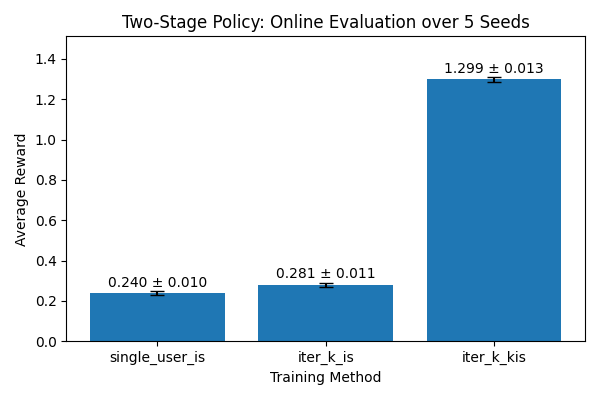
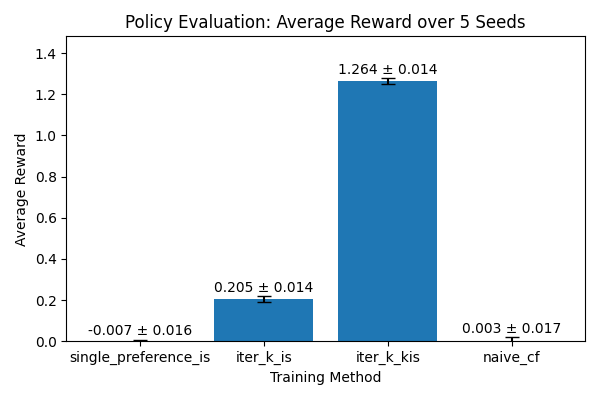
implement naive cf

diff --git a/benchmark/ope/plot_online_two_stage.py b/benchmark/ope/plot_online_two_stage.py
@@ -5,17 +5,17 @@ import numpy as np
 import random
 from custom_obp.dataset.synthetic_bandit_dataset import CustomSyntheticBanditDataset
 from custom_obp.policy.two_stage_policy import TwoTowerFirstStagePolicy, SoftmaxSecondStagePolicy
+from custom_obp.models.cf_model import NaiveCF
 
 def set_seed(seed):
     torch.manual_seed(seed)
     np.random.seed(seed)
     random.seed(seed)
 
-def online_eval_once(policy_path: str, seed: int) -> float:
+def online_eval_once(method: str, seed: int) -> float:
     set_seed(seed)
     device = "cpu"
 
-    # setup dataset
     dataset = CustomSyntheticBanditDataset(
         n_actions=10,
         dim_context=5,
@@ -25,40 +25,56 @@ def online_eval_once(policy_path: str, seed: int) -> float:
         device=device,
         single_stage=False
     )
-
-    # instantiate models
-    first_stage = TwoTowerFirstStagePolicy(
-        dim_context=5,
-        num_items=10,
-        emb_dim=64,
-        top_k=5
-    )
-    second_stage = SoftmaxSecondStagePolicy(
-        dim_context=5,
-        emb_dim=64,
-        first_stage_policy=first_stage
-    )
-
-    # load weights
-    state_dicts = torch.load(policy_path)
-    first_stage.load_state_dict(state_dicts["first_stage"])
-    second_stage.load_state_dict(state_dicts["second_stage"])
-
-    # evaluate
     x_test = dataset.sample_context(10000)
-    candidates = first_stage.sample_topk(x_test)
-    actions = second_stage.sample_output(x_test, candidates)
 
-    rewards = dataset.reward_function(x_test, actions)
-    return rewards.mean().item()
+    if method == "naive_cf":
+        model = NaiveCF(n_users=1000, n_items=dataset.n_actions)
+        model.load_state_dict(torch.load(f"{method}_policy.pt"))
+        model.eval()
+
+        user_ids = torch.randint(0, 1000, size=(10000,))
+        item_ids = torch.arange(dataset.n_actions)
+
+        best_actions = []
+        for user_id in user_ids:
+            user_tensor = user_id.repeat(dataset.n_actions)
+            scores = model(user_tensor, item_ids)
+            best_action = torch.argmax(scores).item()
+            best_actions.append(best_action)
+
+        best_actions = torch.tensor(best_actions)
+        rewards = dataset.reward_function(x_test, best_actions)
+        return rewards.mean().item()
+
+    else:
+        first_stage = TwoTowerFirstStagePolicy(
+            dim_context=5,
+            num_items=10,
+            emb_dim=64,
+            top_k=5
+        )
+        second_stage = SoftmaxSecondStagePolicy(
+            dim_context=5,
+            emb_dim=64,
+            first_stage_policy=first_stage
+        )
+
+        state_dicts = torch.load(f"{method}_policy.pt")
+        dataset.action_context[:] = state_dicts["action_context"]
+        first_stage.load_state_dict(state_dicts["first_stage"])
+        second_stage.load_state_dict(state_dicts["second_stage"])
+
+        candidates = first_stage.sample_topk(x_test)
+        actions = second_stage.sample_output(x_test, candidates)
+        rewards = dataset.reward_function(x_test, actions)
+        return rewards.mean().item()
 
 def evaluate_over_seeds(method: str, seeds=[0, 1, 2, 3, 4]):
-    path = f"{method}_policy.pt"
-    scores = [online_eval_once(path, seed) for seed in seeds]
+    scores = [online_eval_once(method, seed) for seed in seeds]
     return np.mean(scores), np.std(scores)
 
 def main():
-    methods = ["single_user_is", "iter_k_is", "iter_k_kis"]
+    methods = ["single_preference_is", "iter_k_is", "iter_k_kis", "naive_cf"]
     means, stds = [], []
 
     for method in methods:
@@ -67,18 +83,19 @@ def main():
         means.append(mean)
         stds.append(std)
 
-    # creating plot
+    # plotting
     plt.figure(figsize=(6, 4))
     plt.bar(methods, means, yerr=stds, capsize=5)
-    plt.title("Two-Stage Policy: Online Evaluation over 5 Seeds")
+    plt.title("Policy Evaluation: Average Reward over 5 Seeds")
     plt.ylabel("Average Reward")
     plt.xlabel("Training Method")
     plt.ylim(0, max(means) + max(stds) + 0.2)
+
     for i, v in enumerate(means):
         plt.text(i, v + stds[i] + 0.02, f"{v:.3f} ± {stds[i]:.3f}", ha='center')
+
     plt.tight_layout()
-    script_dir = os.path.dirname(os.path.abspath(__file__))
-    save_path = os.path.join(script_dir, "two_stage_eval_seeds.png")
+    save_path = os.path.join(os.path.dirname(__file__), "two_stage_eval_seeds.png")
     plt.savefig(save_path)
     plt.show()
 

diff --git a/benchmark/ope/opl_two_stage_train.py b/benchmark/ope/opl_two_stage_train.py
@@ -7,6 +7,7 @@ from custom_obp.ope.estimators import TwoStageISEstimator, KernelISEstimator
 from custom_obp.dataset.synthetic_bandit_dataset import CustomSyntheticBanditDataset
 from custom_obp.policy.action_policies import UniformRandomPolicy
 from custom_obp.policy.two_stage_policy import TwoTowerFirstStagePolicy, SoftmaxSecondStagePolicy
+from custom_obp.models.cf_model import NaiveCF
 
 class ConstantMarginalDensityModel(nn.Module):
     def __init__(self, constant: float = 0.1):
@@ -30,8 +31,28 @@ def train(method: str, n_epochs=300, kernel_fn=None):
     x = feedback["context"]
     a = feedback["action"]
     r = feedback["reward"]
-    # pi0 = feedback["pscore"]
+    u = feedback["user_id"]
     action_context = dataset.action_context
+
+    if method == "naive_cf":
+        model = NaiveCF(n_users=dataset.n_users, n_items=dataset.n_actions, emb_dim=32)
+        optimizer = optim.Adam(model.parameters())
+        loss_fn = nn.MSELoss()
+
+        for epoch in range(n_epochs):
+            optimizer.zero_grad()
+            preds = model(u, a)
+            loss = loss_fn(preds, r)
+            loss.backward()
+            optimizer.step()
+
+            if epoch % 10 == 0:
+                with torch.no_grad():
+                    mse = ((model(u, a) - r) ** 2).mean()
+                    print(f"[Epoch {epoch}] Method: {method} | Loss: {loss.item():.4f} | MSE: {mse.item():.4f}")
+
+        torch.save(model.state_dict(), f"{method}_policy.pt")
+        return
 
     if kernel_fn is None and method == "iter_k_kis":
         kernel_fn = lambda y, y_i, x, tau: torch.exp(
@@ -66,7 +87,7 @@ def train(method: str, n_epochs=300, kernel_fn=None):
             r_valid = r[valid]
             c_valid = resampled_candidates[valid]
             pi0_valid = torch.full_like(a_valid, 1.0 / dataset.n_actions, dtype=torch.float32)
-
+            
             loss_fn = TwoStageISGradient(
                 first_stage=first_stage,
                 second_stage=second_stage,
@@ -120,6 +141,7 @@ def train(method: str, n_epochs=300, kernel_fn=None):
                 )
                 
         loss = loss_fn.estimate_policy_gradient()
+
         loss.backward()
         optimizer.step()
 
@@ -196,13 +218,15 @@ def train(method: str, n_epochs=300, kernel_fn=None):
     
     torch.save({
         "first_stage": first_stage.state_dict(),
-        "second_stage": second_stage.state_dict()
+        "second_stage": second_stage.state_dict(),
+        "action_context": dataset.action_context
     }, f"{method}_policy.pt")
 
 if __name__ == "__main__":
     parser = argparse.ArgumentParser()
     parser.add_argument("--method", type=str, required=True,
-                        choices=["single_preference_is", "iter_k_is", "iter_k_kis"])
+                        choices=["single_preference_is", "iter_k_is",
+                                  "iter_k_kis", "naive_cf"])
     args = parser.parse_args()
 
     train(method=args.method)

diff --git a/custom_obp/dataset/synthetic_bandit_dataset.py b/custom_obp/dataset/synthetic_bandit_dataset.py
@@ -126,17 +126,28 @@ class CustomSyntheticBanditDataset:
     def obtain_batch_bandit_feedback(self, n_samples, n_users):
         """Obtain structured logged bandit feedback."""
         
-        context = torch.tensor(
-            self.random_.normal(size=(n_samples, self.dim_context)), dtype=torch.float32
-        ).to(self.device)
-        data = self.generate_data(context)
+        self.n_users = n_users
 
+        # Create per-user context embedding
+        user_embeddings = torch.tensor(
+            self.random_.normal(size=(n_users, self.dim_context)), dtype=torch.float32
+        ).to(self.device)
+
+        # Generate user IDs
         user_ids = torch.arange(n_users, device=self.device).repeat(n_samples // n_users + 1)[:n_samples]
         user_ids = user_ids[torch.randperm(n_samples)]
+
+        # Context is now the embedding for that user
+        context = user_embeddings[user_ids]
+
+        data = self.generate_data(context)
         
         if self.single_stage:
-            pi_b_logits = torch.randn(n_samples, self.n_actions).to(self.device)
-            pi_b = torch.softmax(pi_b_logits, dim=1)
+            pi_b = torch.stack([
+                self.action_policy.probs(context[i], self.action_context)
+                for i in range(n_samples)
+            ]).to(self.device)
+
             pscore = pi_b[torch.arange(n_samples), data["actions"]]
 
             return {
@@ -158,10 +169,10 @@ class CustomSyntheticBanditDataset:
                 )
 
             # compute policy probabilities
-            pi_b_logits = torch.tensor(
-                self.random_.normal(size=data["candidates"].shape), dtype=torch.float32
-            ).to(self.device)
-            pi_b = torch.exp(pi_b_logits) / torch.sum(torch.exp(pi_b_logits), dim=1, keepdim=True)
+            pi_b = torch.stack([
+                self.action_policy.probs(context[i], self.action_context[data["candidates"][i]])
+                for i in range(n_samples)
+            ]).to(self.device)
 
             # get probability of chosen action
             chosen_prob = torch.tensor([

diff --git a/custom_obp/models/cf_model.py b/custom_obp/models/cf_model.py
@@ -1,0 +1,12 @@
+import torch.nn as nn
+
+class NaiveCF(nn.Module):
+    def __init__(self, n_users, n_items, emb_dim=32):
+        super().__init__()
+        self.user_embedding = nn.Embedding(n_users, emb_dim)
+        self.item_embedding = nn.Embedding(n_items, emb_dim)
+
+    def forward(self, user_ids, item_ids):
+        user_vecs = self.user_embedding(user_ids)
+        item_vecs = self.item_embedding(item_ids)
+        return (user_vecs * item_vecs).sum(dim=1)

diff --git a/custom_obp/ope/gradients.py b/custom_obp/ope/gradients.py
@@ -89,7 +89,7 @@ class TwoStageISGradient:
 
         # log pi_1(A_k | x)
         log_pi1 = self.first_stage.log_prob_topk_set(x, topk)
-
+        
         # pi_2(a | x, A_k)
         probs_topk = self.second_stage.calc_prob_given_output(x, topk)
 

diff --git a/custom_obp/ope/estimators.py b/custom_obp/ope/estimators.py
@@ -101,7 +101,6 @@ class DoublyRobustEstimator(BaseOffPolicyEstimator):
         dr_reward = self._estimate_dr_rewards()
         return dr_reward.mean()
 
-
 ### Two-stage estimators ###
     
 class TwoStageISEstimator(BaseOffPolicyEstimator):
